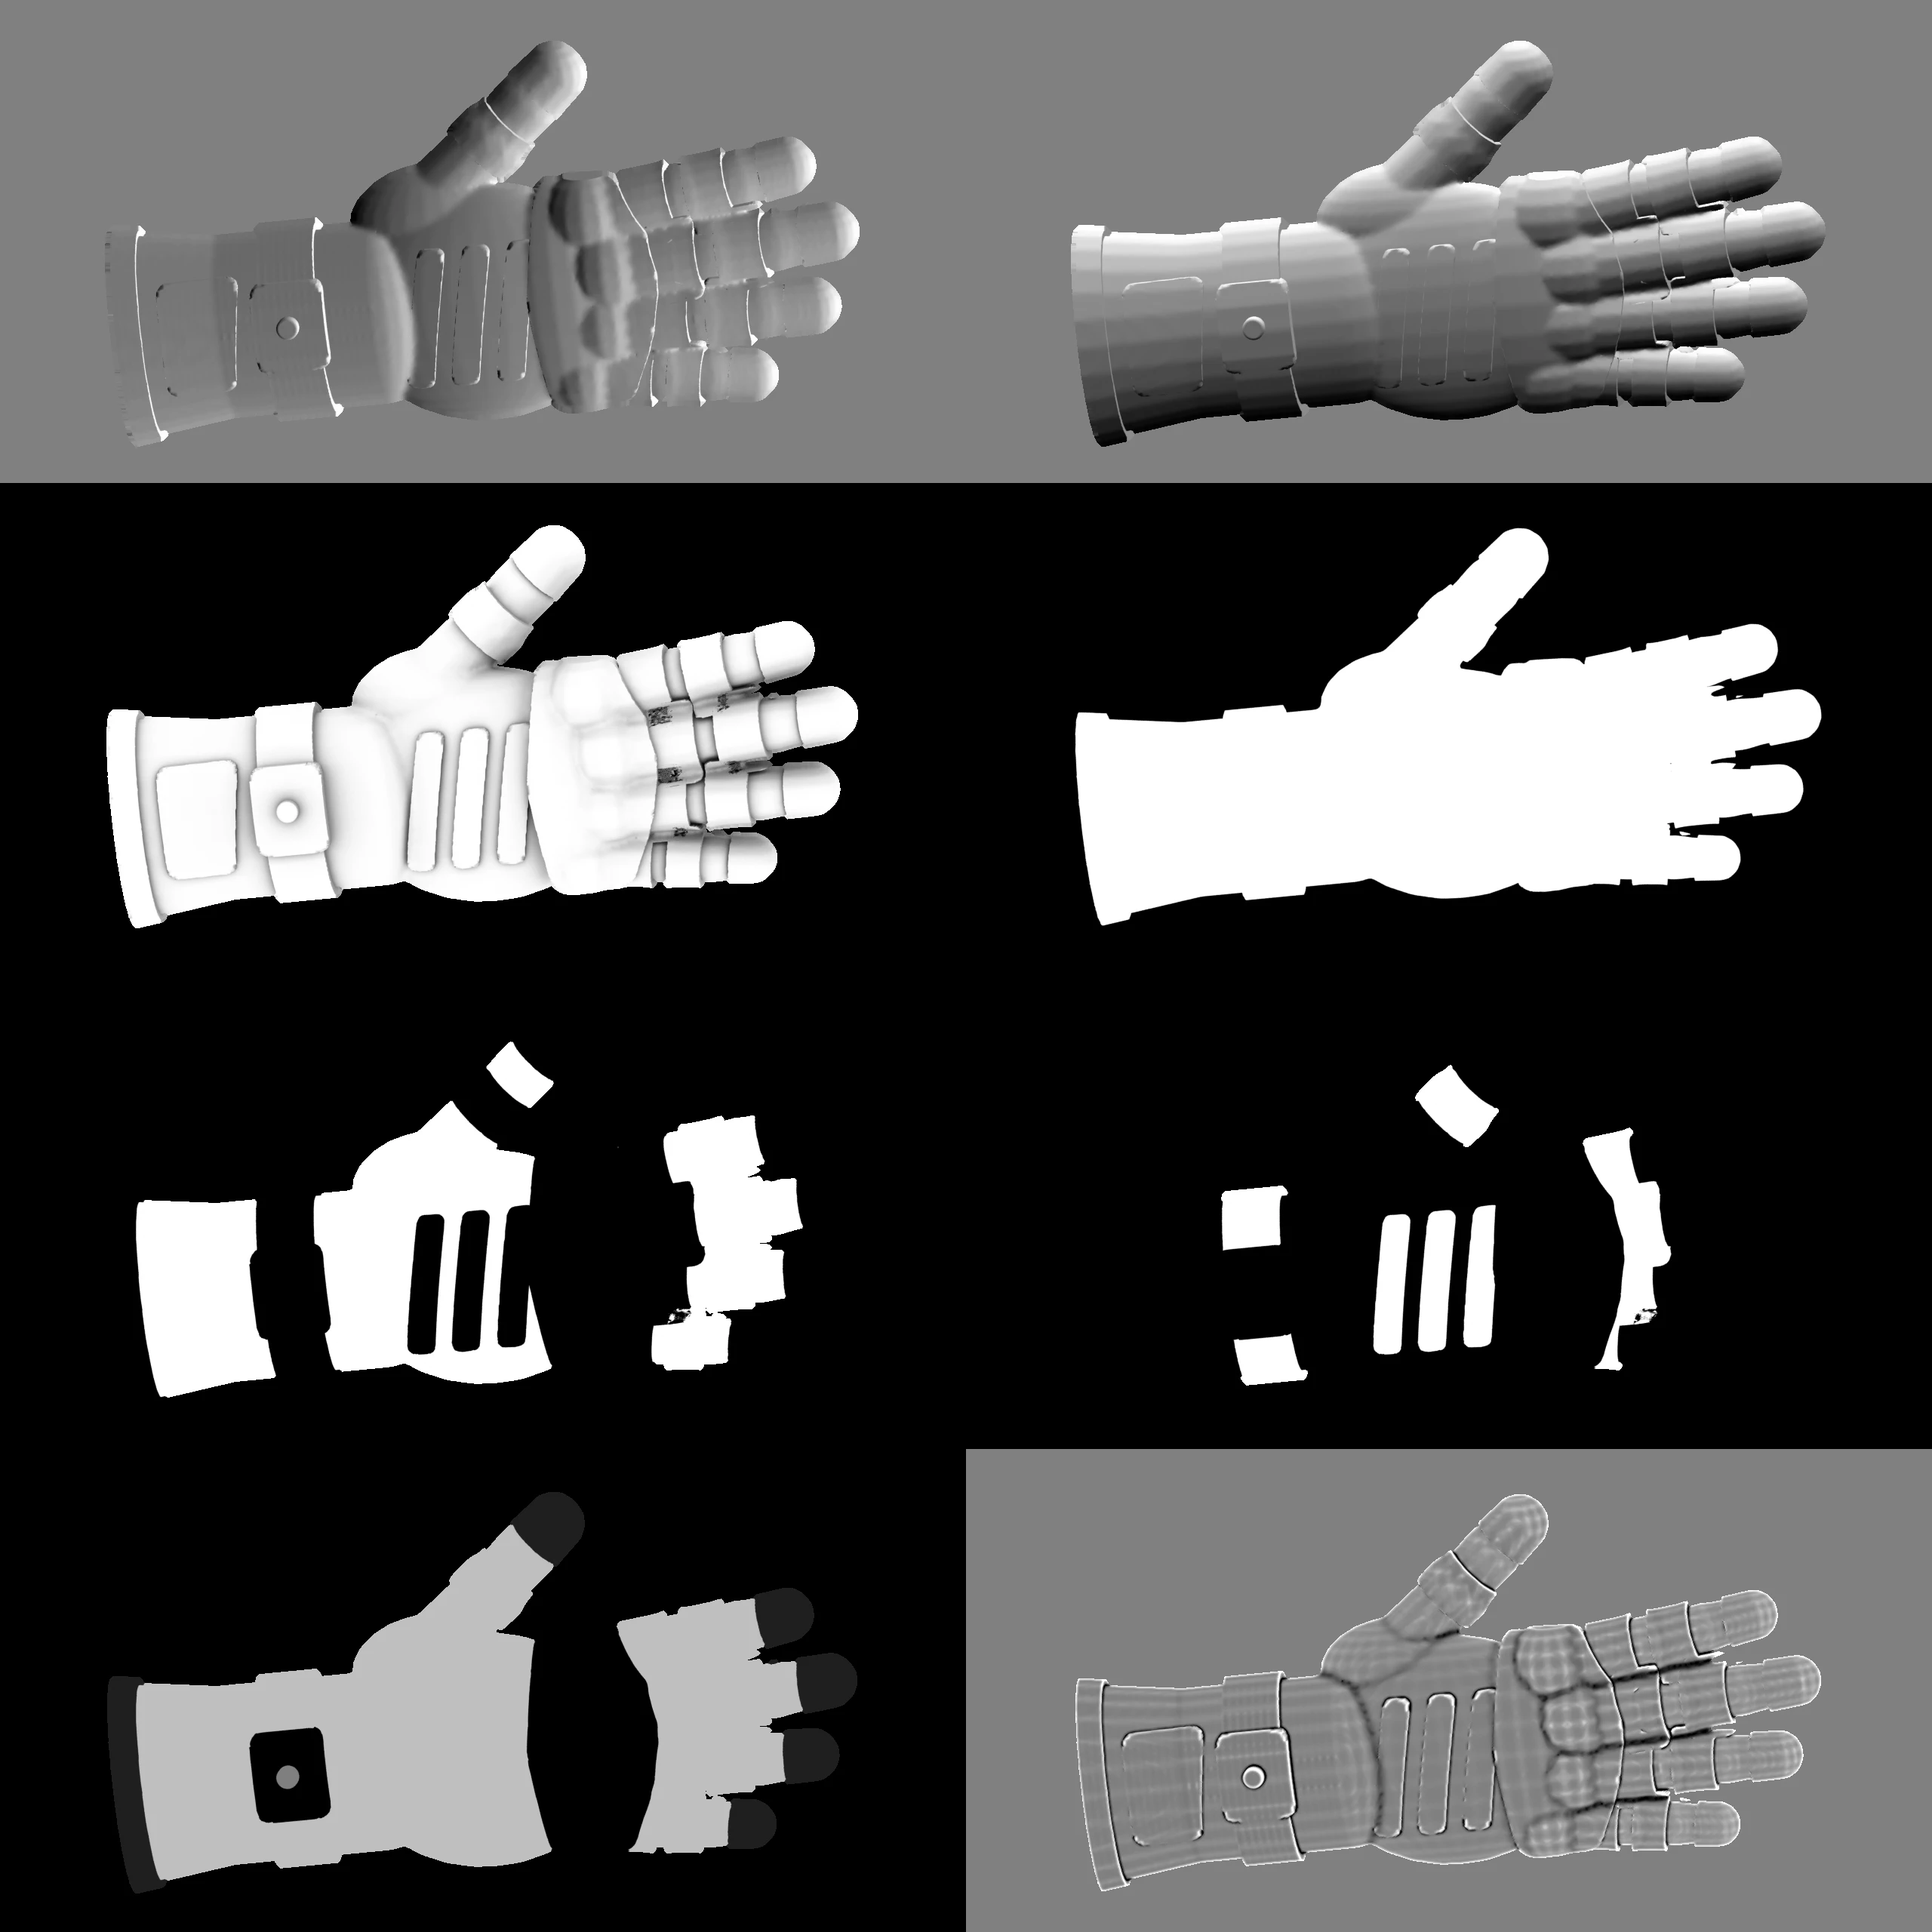
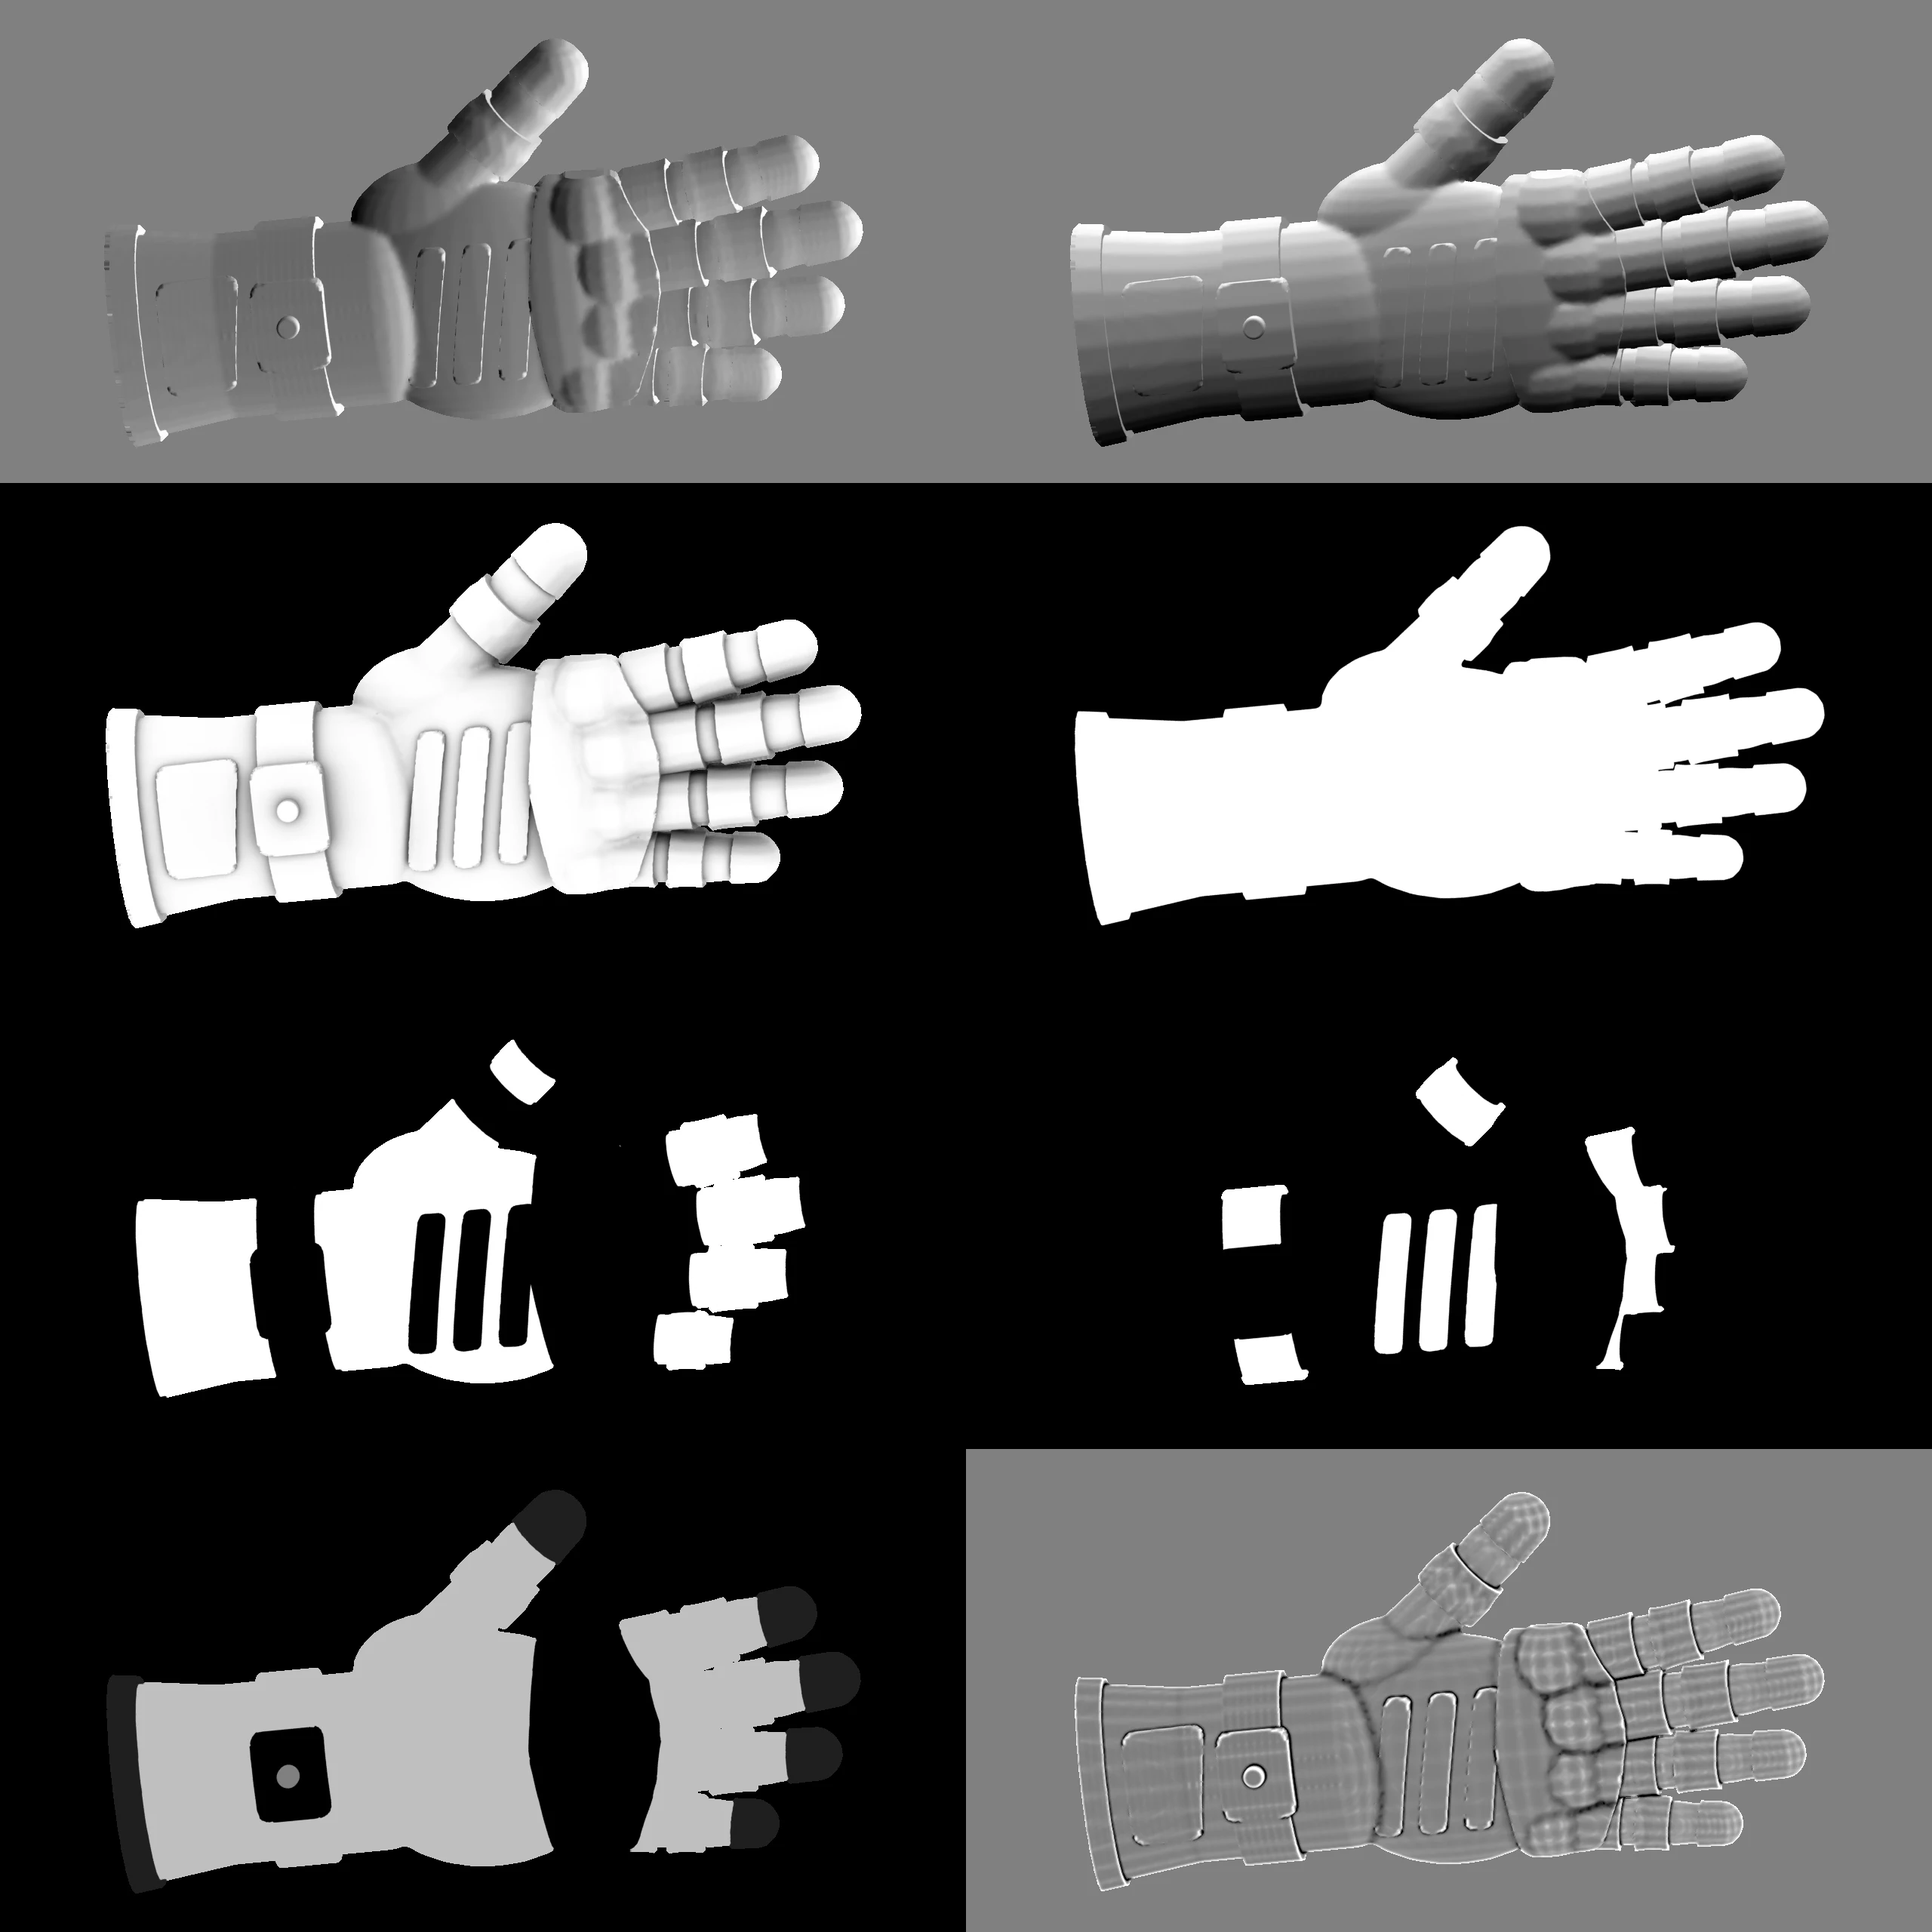
Final glove and blade bakes, quieter away report
- Gloves: per-finger armour and wrap pieces (no stray fragments between
  fingers), smoother cuffs, more paintable area on the gauntlet
- Re-baked blade sprites from the same pass
- Away-earnings report is skipped when it would be under 1 credit

diff --git a/src/game.ts b/src/game.ts
@@ -326,7 +326,7 @@ export class Game {
         this.earn(earned);
         this.s.stats.passive += earned;
       }
-      return dt > 300 && earned > 0 ? { seconds: secs, earned } : null;
+      return dt > 300 && earned >= 1 ? { seconds: secs, earned } : null;
     }
     const earned = inc * dt;
     if (earned > 0) {

diff --git a/art/weapons_melee.py b/art/weapons_melee.py
@@ -315,6 +315,12 @@ def shell(name, tag, d, cells, z0=-9.0, z1=9.0, smooth=3, r=0.0, parts='wpft'):
     return blob(name, tag, lambda b: hand(b, d, parts), 0.1, smooth, [(cob, 'INTERSECT')])
 
 
+def fshell(name, tag, d, f, s0, s1, z0=-9.0, pad=0.5, r=0.0, curl=1.3):
+    """Shell around a single finger only, so neighbouring fingers never bleed into it."""
+    cob = region(name + '_clip', [fseg(f, s0, s1, pad)], z0, 9.0, r)
+    return blob(name, tag, lambda b: _chain(b, f, d, curl), 0.09, 3, [(cob, 'INTERSECT')])
+
+
 def freeze():
     """Apply the remesh stacks once so the three bake passes do not re-evaluate them."""
     bpy.context.view_layer.update()
@@ -339,9 +345,12 @@ def gauntlet():
     base_hand('paint')
     shell('knuckle', 'poly', 0.45, [[(7.2, 4.6), (10.3, 4.55), (11.3, 2.2), (11.6, 0.7), (11.2, -1.5), (10.0, -4.2),
                                      (6.9, -4.3), (6.5, 0.0)]], 0.25, 9, r=0.7, parts='pf')
-    shell('fingers_a', 'accent', 0.24, [fseg(f, 0.17, 0.4) for f in FING] + [fseg(THUMB, 0.34, 0.62)], -0.45, 9, r=0.25, parts='ft')
-    shell('fingers_b', 'paint', 0.24, [fseg(f, 0.49, 0.7) for f in FING], -0.6, 9, r=0.25, parts='ft')
-    shell('tips', 'rubber', 0.12, [fseg(f, 0.87, 1.2) for f in FING] + [fseg(THUMB, 0.84, 1.2)], -9, 9, parts='ft')
+    for i, f in enumerate(FING):
+        fshell('fa%d' % i, 'accent', 0.24, f, 0.17, 0.4, -0.45, r=0.25)
+        fshell('fb%d' % i, 'paint', 0.24, f, 0.49, 0.7, -0.6, r=0.25)
+        fshell('ft%d' % i, 'rubber', 0.12, f, 0.87, 1.2)
+    fshell('ta', 'accent', 0.24, THUMB, 0.34, 0.62, -1.4, r=0.25, curl=0.5)
+    fshell('tt', 'rubber', 0.12, THUMB, 0.84, 1.2, curl=0.5)
     shell('back_bars', 'accent', 0.2, [[(1.4 + i * 1.75, -2.9), (2.5 + i * 1.75, -2.9), (3.6 + i * 1.75, 2.5), (2.5 + i * 1.75, 2.5)]
                                        for i in range(3)], 0.3, 9, r=0.3, parts='pw')
     shell('strap', 'accent', 0.3, [rect(-3.7, -1.5, -12, 12)], -9, 9, parts='wp')
@@ -367,7 +376,8 @@ def wraps():
     shell('diag_c', 'paint', 0.3, [slab(1.0, 0.0, 72, 2.0)], -9, 9, parts='wpt')
     shell('knuck_a', 'paint', 0.34, [slab(8.9, 0.0, 80, 2.2)], -9, 9, parts='pf')
     shell('knuck_b', 'paint', 0.46, [slab(7.5, 0.0, 99, 2.1)], -9, 9, parts='pf')
-    shell('fingers', 'paint', 0.2, [fseg(f, 0.2, 0.43, 0.6) for f in FING], -9, 9, parts='f')
+    for i, f in enumerate(FING):
+        fshell('fw%d' % i, 'paint', 0.2, f, 0.2, 0.43, pad=0.6)
     shell('thumb', 'paint', 0.24, [fseg(THUMB, 0.05, 0.4, 0.7)], -9, 9, parts='tp')
     shell('pad', 'rubber', 0.6, [[(9.7, 3.9), (10.9, 2.0), (11.2, 0.6), (10.8, -1.6), (9.6, -3.9), (8.6, -3.8), (9.2, 0.2), (8.8, 3.8)]],
           0.4, 9, r=0.4, parts='pf')
